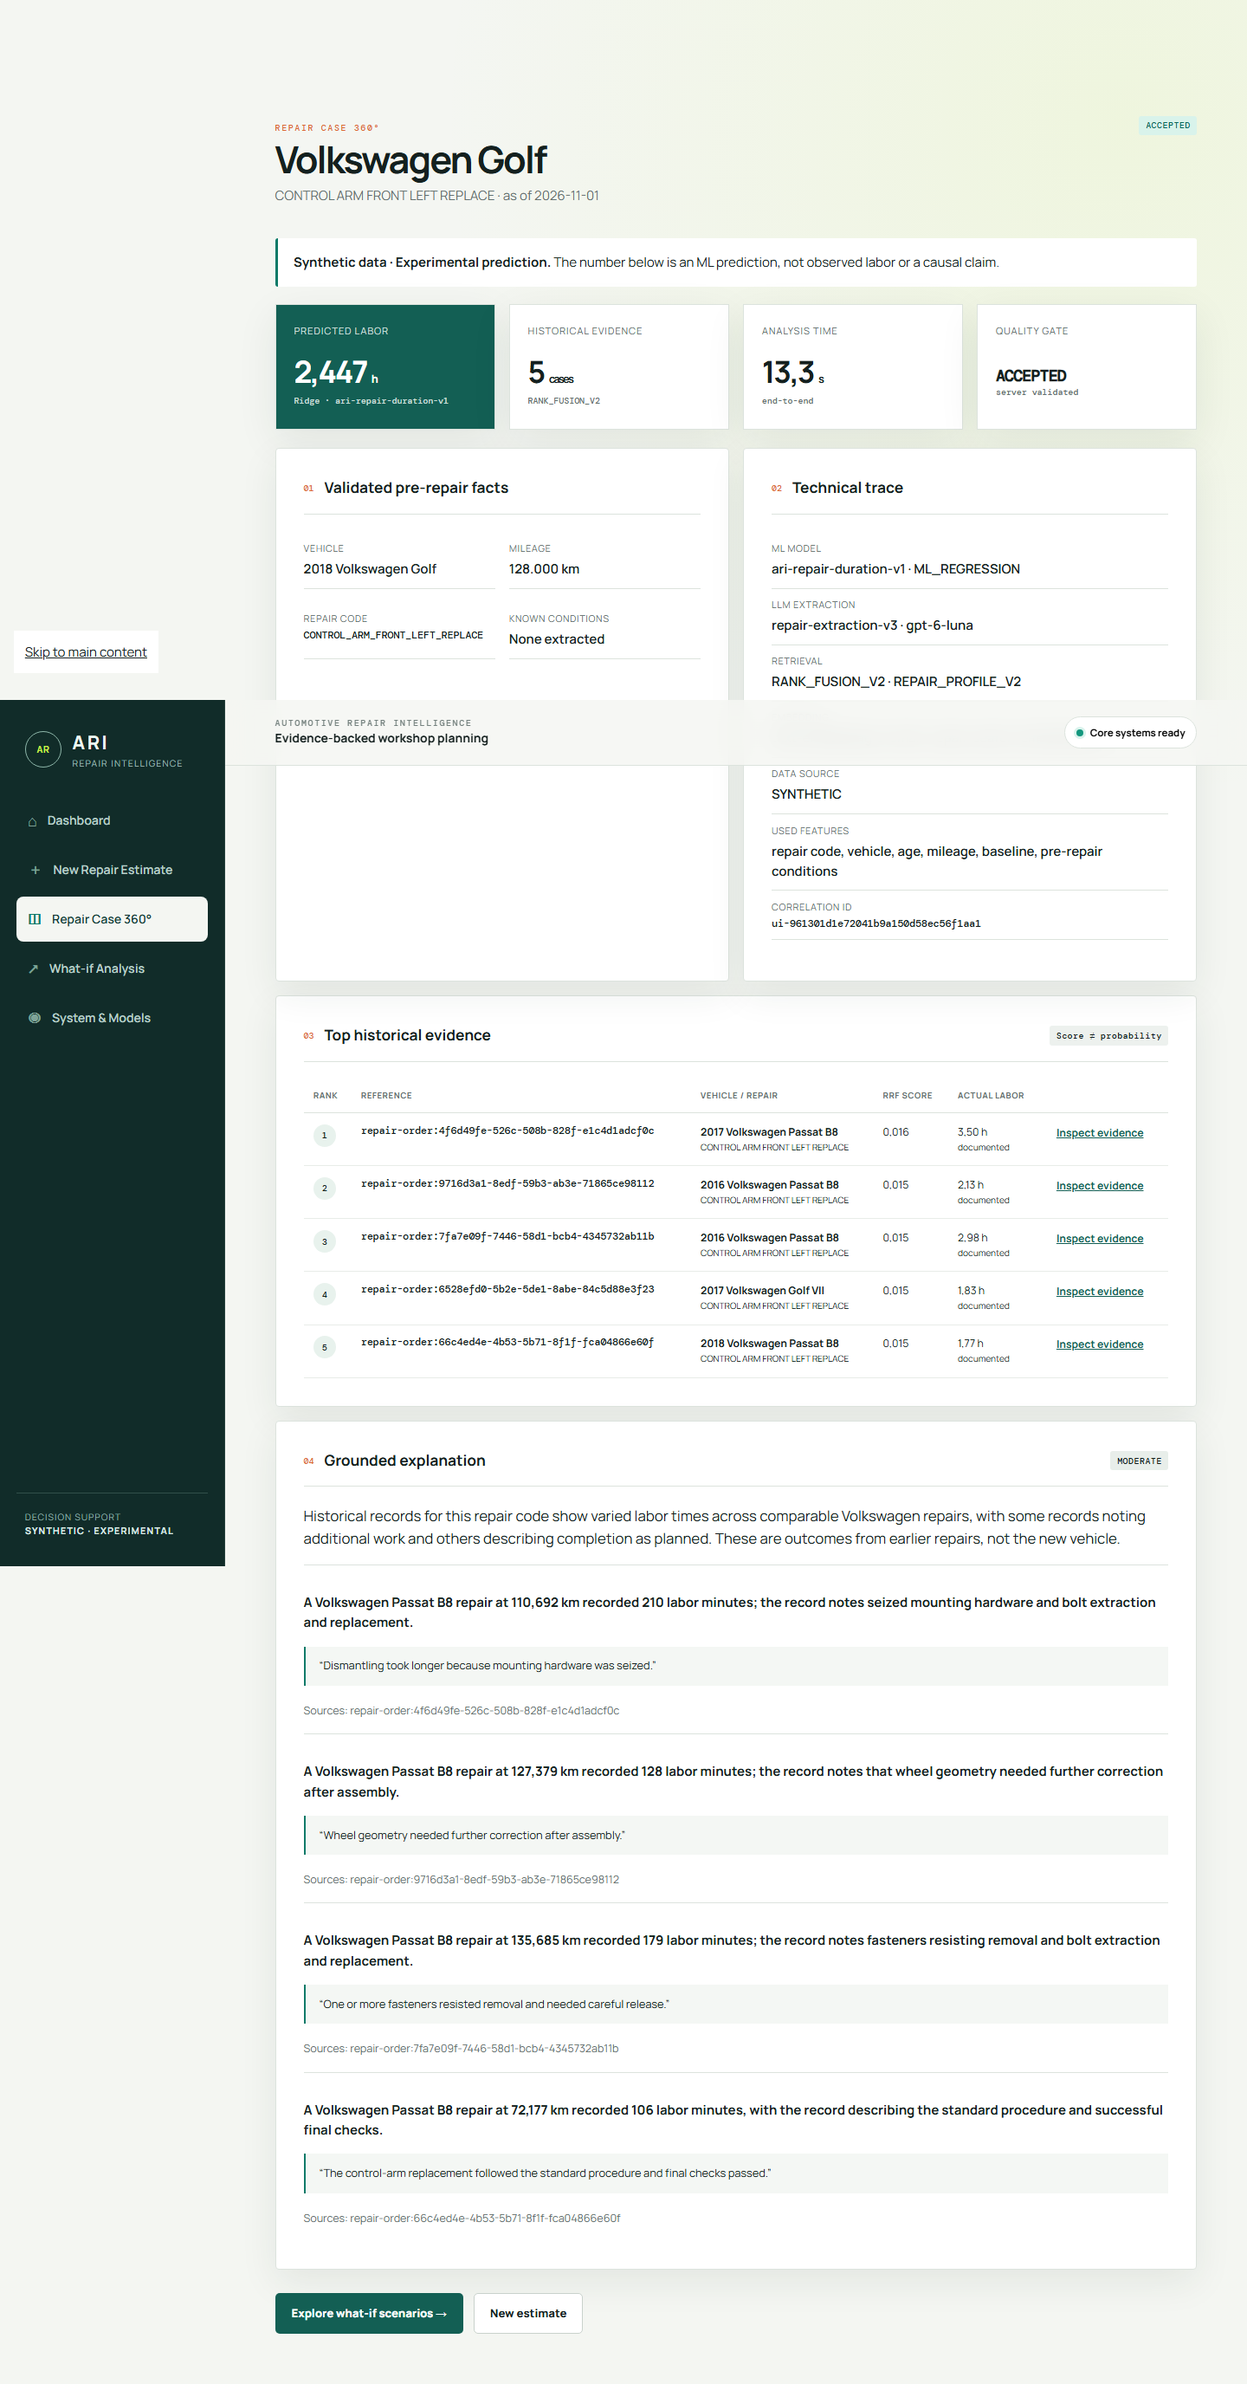
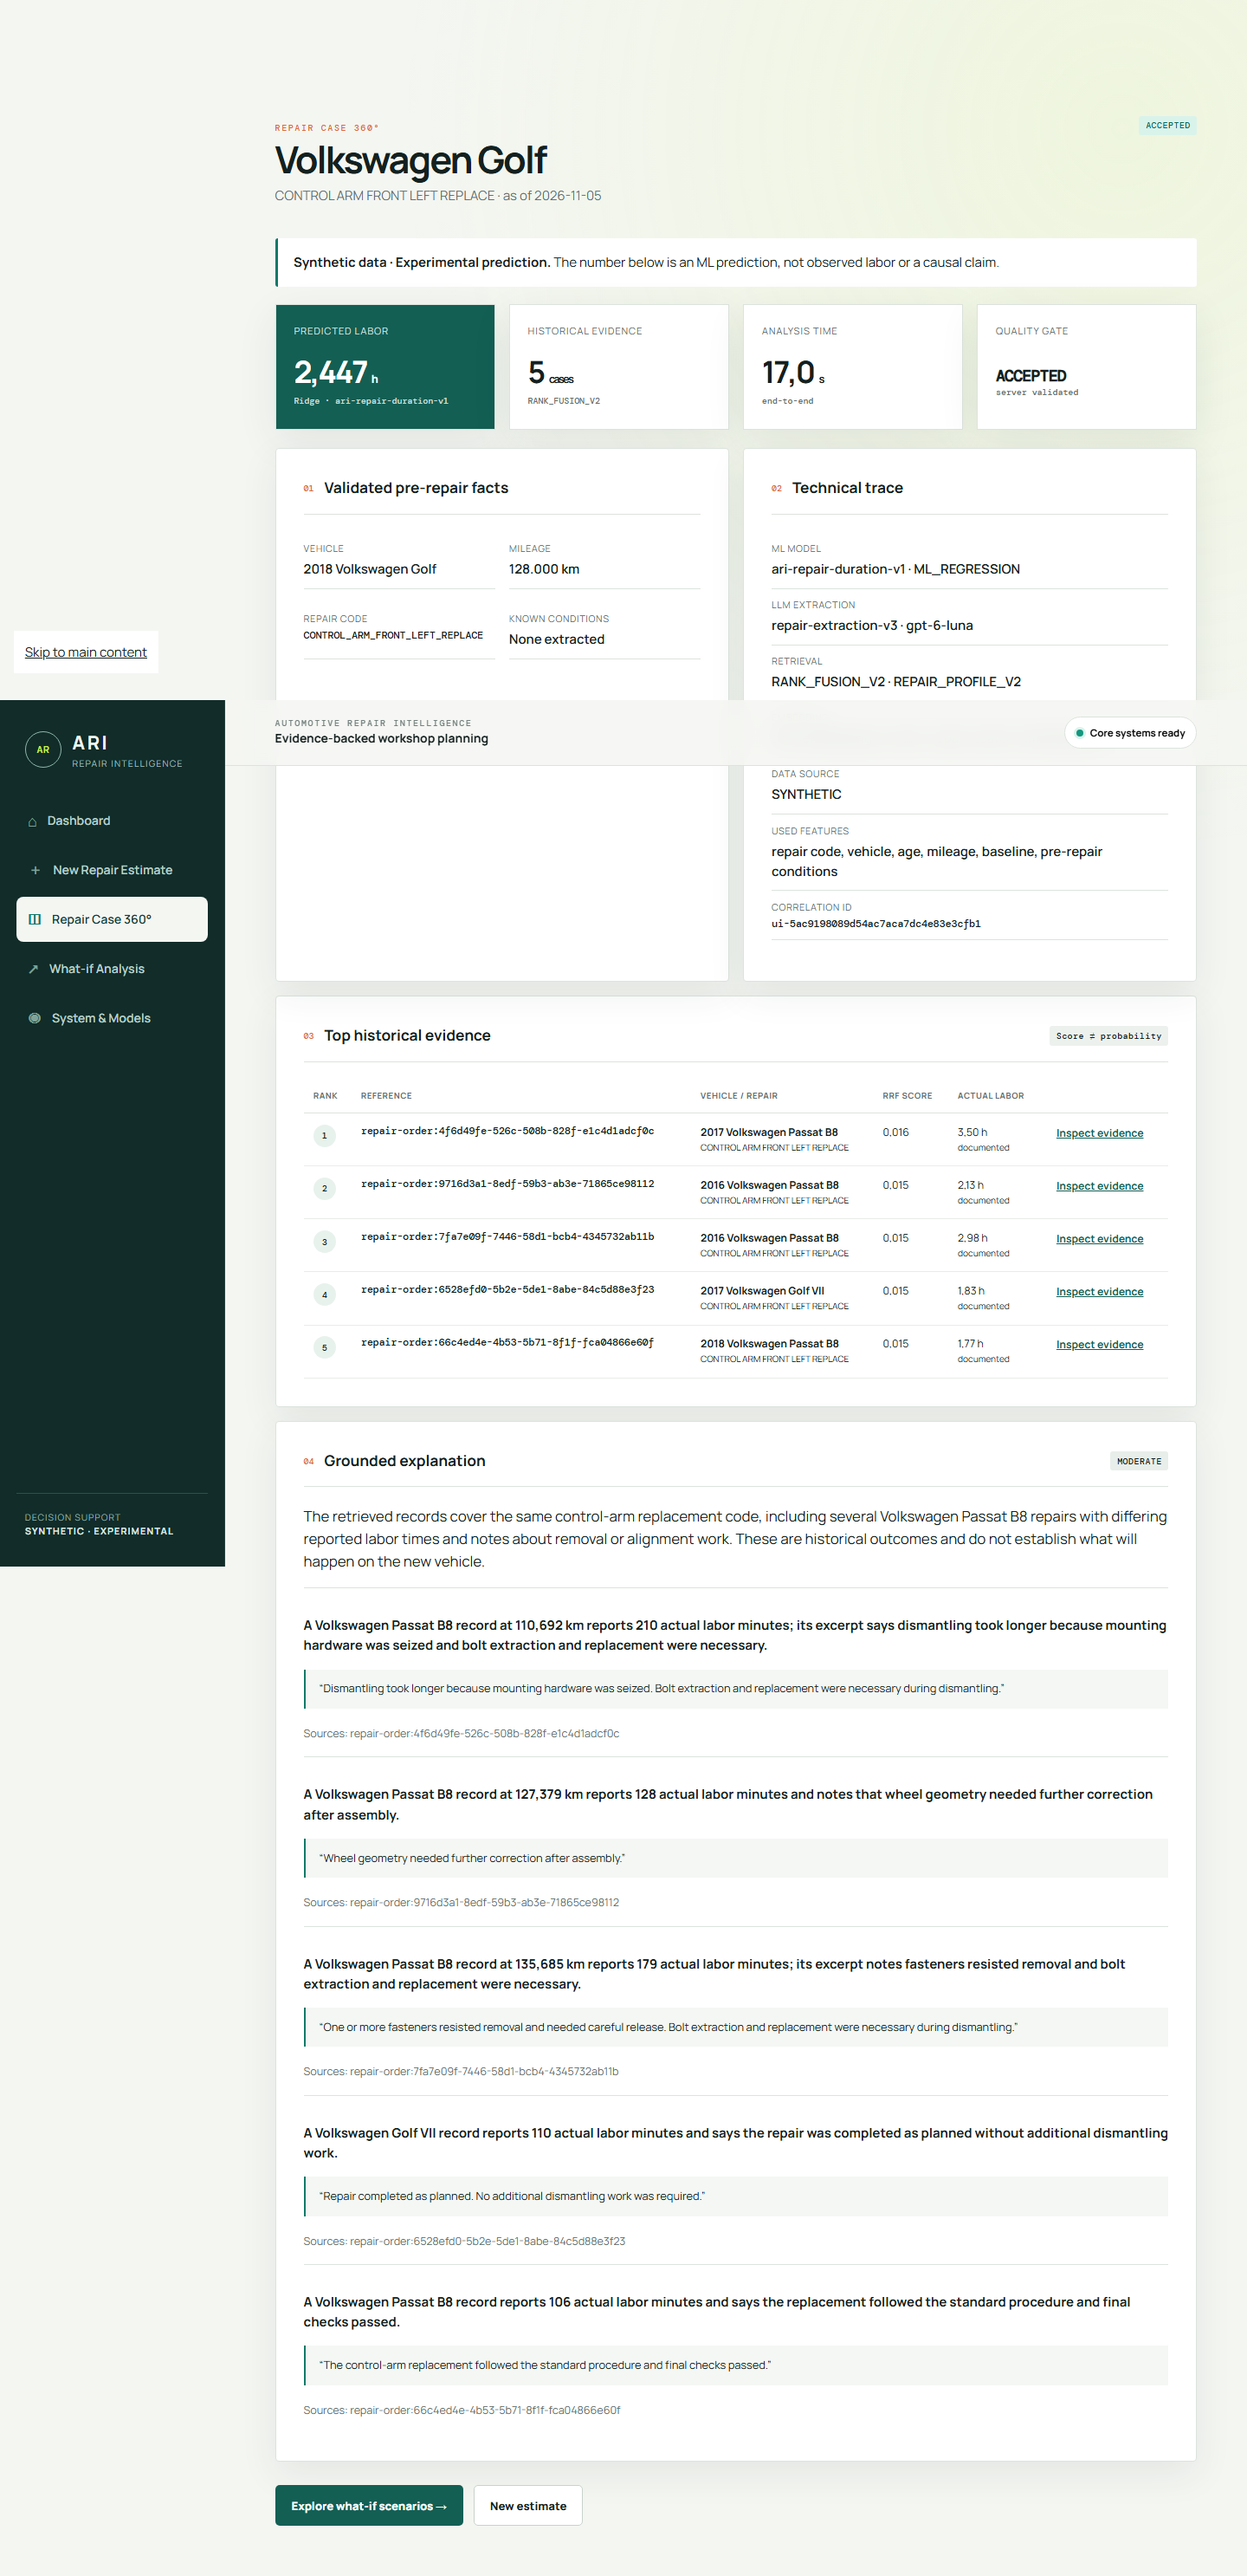
Complete ARI-SHOWCASE-01F live acceptance

diff --git a/docs/showcase-01f-acceptance.md b/docs/showcase-01f-acceptance.md
@@ -49,11 +49,21 @@ The fresh 2026-11-05 execution produced:
 | ARI.Web `/health-ui` | PASS — HTTP 200, fixture mode disabled |
 | HANA integration and data acceptance | PASS — 16/16, no skips |
 | Trained-model acceptance | PASS — 3/3, no skips |
-| Live browser | **BLOCKED — 0/1; OpenAI Responses API returned HTTP 401** |
+| Live browser | PASS — 1/1 in 22 s, no skips |
 
-The browser failure is not a product assertion failure: API logs show that the configured OpenAI credential was rejected before extraction. No key value was logged or copied into the repository. The older green browser report is not used as a substitute. A valid replacement key and one rerun are required to close 01F.
+The successful rerun used an explicitly authorized temporary OpenAI key only in the `ARI.Api` process environment. It was not written to User Secrets, configuration, logs, screenshots, Git, or test artifacts; that process was stopped immediately after the run.
 
-Current fresh regression: **140 tests passed** (121 public-checkout + 3 trained-model + 16 HANA), **1 live browser test failed at provider authentication**. The 141-test release reference is therefore not yet re-established.
+Provider evidence from the successful run:
+
+- OpenAI LLM V3 extraction: HTTP 200, model `gpt-6-luna`, prompt `repair-extraction-v3`;
+- OpenAI embeddings: HTTP 200;
+- grounded explanation: HTTP 200 and restricted to the five retrieved source IDs;
+- Python Ridge inference: HTTP 200, `ari-repair-duration-v1`;
+- HANA retrieval: five `RANK_FUSION_V2` / `REPAIR_PROFILE_V2` sources;
+- baseline: 2.447 h; high mileage: 2.497 h; visible corrosion: 2.655 h;
+- baseline remained unchanged after both what-if runs.
+
+Final fresh regression: **141/141 tests passed** (121 public-checkout + 3 trained-model + 16 HANA + 1 live browser), with no skips in the live suites. The refreshed Repair Case 360° and intake screenshots contain synthetic data only and were visually rechecked for credentials and internal access information.
 
 ## Definition of Done
 
@@ -61,6 +71,6 @@ Current fresh regression: **140 tests passed** (121 public-checkout + 3 trained-
 | --- | --- | --- |
 | Documented .NET/Python environment builds from a fresh checkout | PASS | pinned toolchains, locks, [reproduction guide](reproducibility-and-ci.md), and isolated clone run |
 | Deterministic tests and GitHub CI succeed | PASS locally / hosted pending 01G | 121/121 from the public checkout; workflow has read-only permissions and no live secrets |
-| Fresh live E2E and final regression are documented | BLOCKED | current evidence recorded above; valid OpenAI credential and one live-browser rerun required |
+| Fresh live E2E and final regression are documented | PASS | all readiness gates HTTP 200; 16 HANA + 3 model + 1 browser acceptance tests passed |
 
 No unavailable or skipped live test is counted as a pass.
